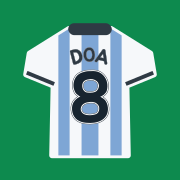
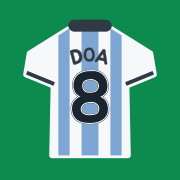
제목 유니폼 켈리그린, 아이콘 카라 위로 (v2026-09-28k)

Changed region(s): [[0.3611, 0.0833, 0.6389, 0.2222]]

diff --git a/index.html b/index.html
@@ -60,11 +60,13 @@
   --surface-1:#ffffff;
   --surface-2:#ffffff; --field:#ffffff;
 
-  --ink:#111111; --ink-2:#4a4a4a; --ink-3:#7a7a7a;
+  /* 주아는 획이 굵은 서체다 — 본문 먹색을 한 단 옅게 잡아 덜 굵어 보이게 한다.
+     달력 숫자만 예전 먹색(--ink-hard)을 그대로 써서 또렷함을 지킨다. */
+  --ink:#333333; --ink-2:#5a5a5a; --ink-3:#7a7a7a; --ink-hard:#111111;
   --on-bg:var(--ink); --on-bg-dim:var(--ink-3);
 
   /* 녹색 — 해냈다는 신호 */
-  --pulse:#0d8a4e; --pulse-strong:#0a6f3e;
+  --pulse:#00a651; --pulse-strong:#0a6f3e;
   --pulse-dim:#9ad9b8; --pulse-wash:#e3f6ec;
   --pulse-ink:#ffffff;
 
@@ -191,7 +193,8 @@ svg{pointer-events:none}
 header .title{font-size:var(--fs-2xl);line-height:1.25;font-weight:400;margin:0;
   text-wrap:balance;color:var(--on-bg)}
 header .title em{font-style:normal;color:var(--pulse)}
-/* 제목 앞의 8번 유니폼 — 홈 화면 아이콘과 같은 줄무늬 유니폼 */
+/* 제목 앞의 8번 유니폼 — 쨍한 켈리 그린 바탕에 옆줄 두 줄, 금빛 카라·소매단·등번호.
+   위에서 아래로 옅은 그라디언트를 깔아 천의 두께가 느껴지게 했다. */
 header .mark{
   display:inline-block;vertical-align:-.38em;
   width:1.62em;height:1.62em;margin-right:6px;
@@ -573,7 +576,7 @@ button.carry.mv{font:inherit;font-size:var(--fs-2xs);border:0;cursor:pointer}
    아래의 표시 자리도 늘 같은 높이로 잡아 두었으므로,
    다 해낸 날이든 아니든 숫자는 정확히 같은 높이에 있다. */
 .day .n{
-  flex:none;
+  flex:none;color:var(--ink-hard);
   font-size:var(--fs-sm);line-height:1;font-variant-numeric:tabular-nums;
   width:clamp(20px,6.4vw,25px);height:clamp(20px,6.4vw,25px);
   display:flex;align-items:center;justify-content:center;border-radius:8px;
@@ -797,7 +800,7 @@ header .title,.today-date,.cal-title,.board .v,.keep h2,.install h2,
 
 <div class="wrap">
   <header>
-    <h1 class="title"><span class="mark" aria-hidden="true"><svg viewBox="0 0 24 24" aria-hidden="true"><defs><clipPath id="mk"><path d="M9.19 3.84 L14.81 3.84 L20.06 7.12 L20.53 9.94 L16.88 11.44 L17.06 20.72 L6.94 20.72 L7.12 11.44 L3.47 9.94 L3.94 7.12 Z"/></clipPath></defs><path d="M9.19 3.84 L14.81 3.84 L20.06 7.12 L20.53 9.94 L16.88 11.44 L17.06 20.72 L6.94 20.72 L7.12 11.44 L3.47 9.94 L3.94 7.12 Z" fill="#ffffff" stroke="#2f3a44" stroke-width="1" stroke-linejoin="round" stroke-linecap="round"/><g clip-path="url(#mk)" fill="#7ea6d5"><rect x="7.78" y="2.81" width="1.5" height="18.75"/><rect x="10.88" y="2.81" width="2.25" height="18.75"/><rect x="14.72" y="2.81" width="1.5" height="18.75"/></g><g clip-path="url(#mk)" fill="none" stroke="#2f3a44" stroke-width="1" stroke-linecap="butt"><path d="M3.47 9.94 L7.12 11.44"/><path d="M20.53 9.94 L16.88 11.44"/></g><g fill="#2f3a44"><rect x="9.09" y="3.09" width="5.81" height="1.59" rx="0.8"/></g><g fill="#ffffff" stroke="#ffffff" stroke-width="1.1" stroke-linejoin="round"><g transform="translate(12,15.9) scale(0.01300,-0.01300) translate(-290.5,0)"><path d="M293 1Q263 1 231.5 4.0Q200 7 170.5 16.5Q141 26 115.5 43.0Q90 60 73 87Q54 116 46.5 149.5Q39 183 41 218Q46 272 77.5 310.0Q109 348 157 368Q153 368 144.5 373.0Q136 378 127.0 385.0Q118 392 110.5 398.5Q103 405 100 407Q88 420 80.5 437.0Q73 454 68 471Q55 516 65.0 565.5Q75 615 106 652Q119 668 139.0 680.5Q159 693 182.0 701.5Q205 710 228.5 715.0Q252 720 271 720Q297 720 322.0 721.0Q347 722 372 718Q403 713 429.5 698.0Q456 683 476 661Q516 617 527.5 562.5Q539 508 524 451Q519 435 509.0 421.5Q499 408 486 396Q483 394 476.0 389.0Q469 384 460.5 378.5Q452 373 444.0 369.5Q436 366 432 367Q456 352 478.0 337.5Q500 323 514 297Q528 271 534.5 242.0Q541 213 539.5 184.0Q538 155 528.0 127.5Q518 100 499 78Q480 56 455.5 41.5Q431 27 404.0 18.0Q377 9 348.5 5.0Q320 1 293 1ZM295 293Q273 292 250.5 287.0Q228 282 209.5 271.5Q191 261 178.0 243.5Q165 226 162 200Q160 180 167.5 164.5Q175 149 187.5 137.5Q200 126 217.0 119.5Q234 113 251 111Q291 105 328 112Q342 115 354.5 117.5Q367 120 377.5 125.0Q388 130 396.5 138.5Q405 147 411 162Q420 183 418.5 209.5Q417 236 402 253Q380 279 353.5 287.0Q327 295 295 293ZM296 610Q273 608 252.0 603.0Q231 598 215.0 587.0Q199 576 190.5 558.0Q182 540 183 513Q184 494 189.0 477.5Q194 461 208 447Q225 427 249.0 423.5Q273 420 297 421Q334 421 361.5 432.0Q389 443 406 479Q419 508 413.0 533.0Q407 558 390.0 575.5Q373 593 347.5 602.5Q322 612 296 610Z"/></g></g><g fill="#2f3a44"><g transform="translate(12,15.9) scale(0.01300,-0.01300) translate(-290.5,0)"><path d="M293 1Q263 1 231.5 4.0Q200 7 170.5 16.5Q141 26 115.5 43.0Q90 60 73 87Q54 116 46.5 149.5Q39 183 41 218Q46 272 77.5 310.0Q109 348 157 368Q153 368 144.5 373.0Q136 378 127.0 385.0Q118 392 110.5 398.5Q103 405 100 407Q88 420 80.5 437.0Q73 454 68 471Q55 516 65.0 565.5Q75 615 106 652Q119 668 139.0 680.5Q159 693 182.0 701.5Q205 710 228.5 715.0Q252 720 271 720Q297 720 322.0 721.0Q347 722 372 718Q403 713 429.5 698.0Q456 683 476 661Q516 617 527.5 562.5Q539 508 524 451Q519 435 509.0 421.5Q499 408 486 396Q483 394 476.0 389.0Q469 384 460.5 378.5Q452 373 444.0 369.5Q436 366 432 367Q456 352 478.0 337.5Q500 323 514 297Q528 271 534.5 242.0Q541 213 539.5 184.0Q538 155 528.0 127.5Q518 100 499 78Q480 56 455.5 41.5Q431 27 404.0 18.0Q377 9 348.5 5.0Q320 1 293 1ZM295 293Q273 292 250.5 287.0Q228 282 209.5 271.5Q191 261 178.0 243.5Q165 226 162 200Q160 180 167.5 164.5Q175 149 187.5 137.5Q200 126 217.0 119.5Q234 113 251 111Q291 105 328 112Q342 115 354.5 117.5Q367 120 377.5 125.0Q388 130 396.5 138.5Q405 147 411 162Q420 183 418.5 209.5Q417 236 402 253Q380 279 353.5 287.0Q327 295 295 293ZM296 610Q273 608 252.0 603.0Q231 598 215.0 587.0Q199 576 190.5 558.0Q182 540 183 513Q184 494 189.0 477.5Q194 461 208 447Q225 427 249.0 423.5Q273 420 297 421Q334 421 361.5 432.0Q389 443 406 479Q419 508 413.0 533.0Q407 558 390.0 575.5Q373 593 347.5 602.5Q322 612 296 610Z"/></g></g></svg></span>오늘도 도아 <em>킥<button class="kick" id="kick" aria-label="공 차기"><svg viewBox="0 0 24 24" aria-hidden="true"><defs><clipPath id="kb"><circle cx="12" cy="12" r="9"/></clipPath></defs><circle cx="12" cy="12" r="9" fill="var(--bg0)" stroke="currentColor" stroke-width="1.6"/><g clip-path="url(#kb)" fill="currentColor"><path d="M12 8.1 L15.71 10.79 L14.29 15.16 L9.71 15.16 L8.29 10.79 Z"/><path d="M15.41 7.31 L14.11 3.29 L17.53 0.8 L20.95 3.29 L19.65 7.31 Z"/><path d="M17.52 13.79 L20.94 11.3 L24.36 13.79 L23.06 17.81 L18.82 17.81 Z"/><path d="M12 17.8 L15.42 20.29 L14.12 24.31 L9.88 24.31 L8.58 20.29 Z"/><path d="M6.48 13.79 L5.18 17.81 L0.94 17.81 L-0.36 13.79 L3.06 11.3 Z"/><path d="M8.59 7.31 L4.35 7.31 L3.05 3.29 L6.47 0.8 L9.89 3.29 Z"/></g></svg></button></em></h1>
+    <h1 class="title"><span class="mark" aria-hidden="true"><svg viewBox="0 0 24 24" aria-hidden="true"><defs><clipPath id="mk"><path d="M9.19 3.84 L14.81 3.84 L20.06 7.12 L20.53 9.94 L16.88 11.44 L17.06 20.72 L6.94 20.72 L7.12 11.44 L3.47 9.94 L3.94 7.12 Z"/></clipPath><linearGradient id="mkg" x1="0.1" y1="0" x2="0.5" y2="1"><stop offset="0" stop-color="#2ec26d"/><stop offset="0.5" stop-color="#0d8a4e"/><stop offset="1" stop-color="#00742f"/></linearGradient></defs><path d="M9.19 3.84 L14.81 3.84 L20.06 7.12 L20.53 9.94 L16.88 11.44 L17.06 20.72 L6.94 20.72 L7.12 11.44 L3.47 9.94 L3.94 7.12 Z" fill="url(#mkg)" stroke="#00461f" stroke-width="1.7" stroke-linejoin="round" stroke-linecap="round"/><g clip-path="url(#mk)" fill="#3ad07a"><rect x="9.19" y="2.81" width="1.22" height="18.75"/><rect x="13.59" y="2.81" width="1.22" height="18.75"/></g><g clip-path="url(#mk)" fill="none" stroke="#f5c04a" stroke-width="1.5" stroke-linecap="butt"><path d="M3.47 9.94 L7.12 11.44"/><path d="M20.53 9.94 L16.88 11.44"/></g><g fill="#f5c04a"><rect x="9.09" y="2.72" width="5.81" height="1.59" rx="0.8"/></g><g fill="#f5c04a"><g transform="translate(12,15.9) scale(0.01300,-0.01300) translate(-290.5,0)"><path d="M293 1Q263 1 231.5 4.0Q200 7 170.5 16.5Q141 26 115.5 43.0Q90 60 73 87Q54 116 46.5 149.5Q39 183 41 218Q46 272 77.5 310.0Q109 348 157 368Q153 368 144.5 373.0Q136 378 127.0 385.0Q118 392 110.5 398.5Q103 405 100 407Q88 420 80.5 437.0Q73 454 68 471Q55 516 65.0 565.5Q75 615 106 652Q119 668 139.0 680.5Q159 693 182.0 701.5Q205 710 228.5 715.0Q252 720 271 720Q297 720 322.0 721.0Q347 722 372 718Q403 713 429.5 698.0Q456 683 476 661Q516 617 527.5 562.5Q539 508 524 451Q519 435 509.0 421.5Q499 408 486 396Q483 394 476.0 389.0Q469 384 460.5 378.5Q452 373 444.0 369.5Q436 366 432 367Q456 352 478.0 337.5Q500 323 514 297Q528 271 534.5 242.0Q541 213 539.5 184.0Q538 155 528.0 127.5Q518 100 499 78Q480 56 455.5 41.5Q431 27 404.0 18.0Q377 9 348.5 5.0Q320 1 293 1ZM295 293Q273 292 250.5 287.0Q228 282 209.5 271.5Q191 261 178.0 243.5Q165 226 162 200Q160 180 167.5 164.5Q175 149 187.5 137.5Q200 126 217.0 119.5Q234 113 251 111Q291 105 328 112Q342 115 354.5 117.5Q367 120 377.5 125.0Q388 130 396.5 138.5Q405 147 411 162Q420 183 418.5 209.5Q417 236 402 253Q380 279 353.5 287.0Q327 295 295 293ZM296 610Q273 608 252.0 603.0Q231 598 215.0 587.0Q199 576 190.5 558.0Q182 540 183 513Q184 494 189.0 477.5Q194 461 208 447Q225 427 249.0 423.5Q273 420 297 421Q334 421 361.5 432.0Q389 443 406 479Q419 508 413.0 533.0Q407 558 390.0 575.5Q373 593 347.5 602.5Q322 612 296 610Z"/></g></g></svg></span>오늘도 도아 <em>킥<button class="kick" id="kick" aria-label="공 차기"><svg viewBox="0 0 24 24" aria-hidden="true"><defs><clipPath id="kb"><circle cx="12" cy="12" r="9"/></clipPath></defs><circle cx="12" cy="12" r="9" fill="var(--bg0)" stroke="currentColor" stroke-width="1.6"/><g clip-path="url(#kb)" fill="currentColor"><path d="M12 8.1 L15.71 10.79 L14.29 15.16 L9.71 15.16 L8.29 10.79 Z"/><path d="M15.41 7.31 L14.11 3.29 L17.53 0.8 L20.95 3.29 L19.65 7.31 Z"/><path d="M17.52 13.79 L20.94 11.3 L24.36 13.79 L23.06 17.81 L18.82 17.81 Z"/><path d="M12 17.8 L15.42 20.29 L14.12 24.31 L9.88 24.31 L8.58 20.29 Z"/><path d="M6.48 13.79 L5.18 17.81 L0.94 17.81 L-0.36 13.79 L3.06 11.3 Z"/><path d="M8.59 7.31 L4.35 7.31 L3.05 3.29 L6.47 0.8 L9.89 3.29 Z"/></g></svg></button></em></h1>
     <button class="gear" id="gear" aria-label="설정" aria-expanded="false"></button>
   </header>
 
@@ -832,7 +835,7 @@ header .title,.today-date,.cal-title,.board .v,.keep h2,.install h2,
   <footer>
     달력에서 날짜를 누르면 그날 훈련을 보고 고칠 수 있어요.<br>
     기록은 이 기기에 저장돼요. 가끔 백업 파일로 내보내 두세요.<br>
-    <span class="ver">v2026-09-28c</span>
+    <span class="ver">v2026-09-28k</span>
   </footer>
 </div>
 

diff --git a/sw.js b/sw.js
@@ -4,7 +4,7 @@
    훈련 기록 자체는 여기 캐시가 아니라 localStorage 에 있으므로
    캐시를 비워도 데이터는 사라지지 않는다. */
 
-var VERSION = "doakick-2026-09-28c";
+var VERSION = "doakick-2026-09-28k";
 var PREFIX = "doakick-";
 var SHELL = PREFIX + "shell-" + VERSION;
 var FONTS = PREFIX + "fonts-" + VERSION;
